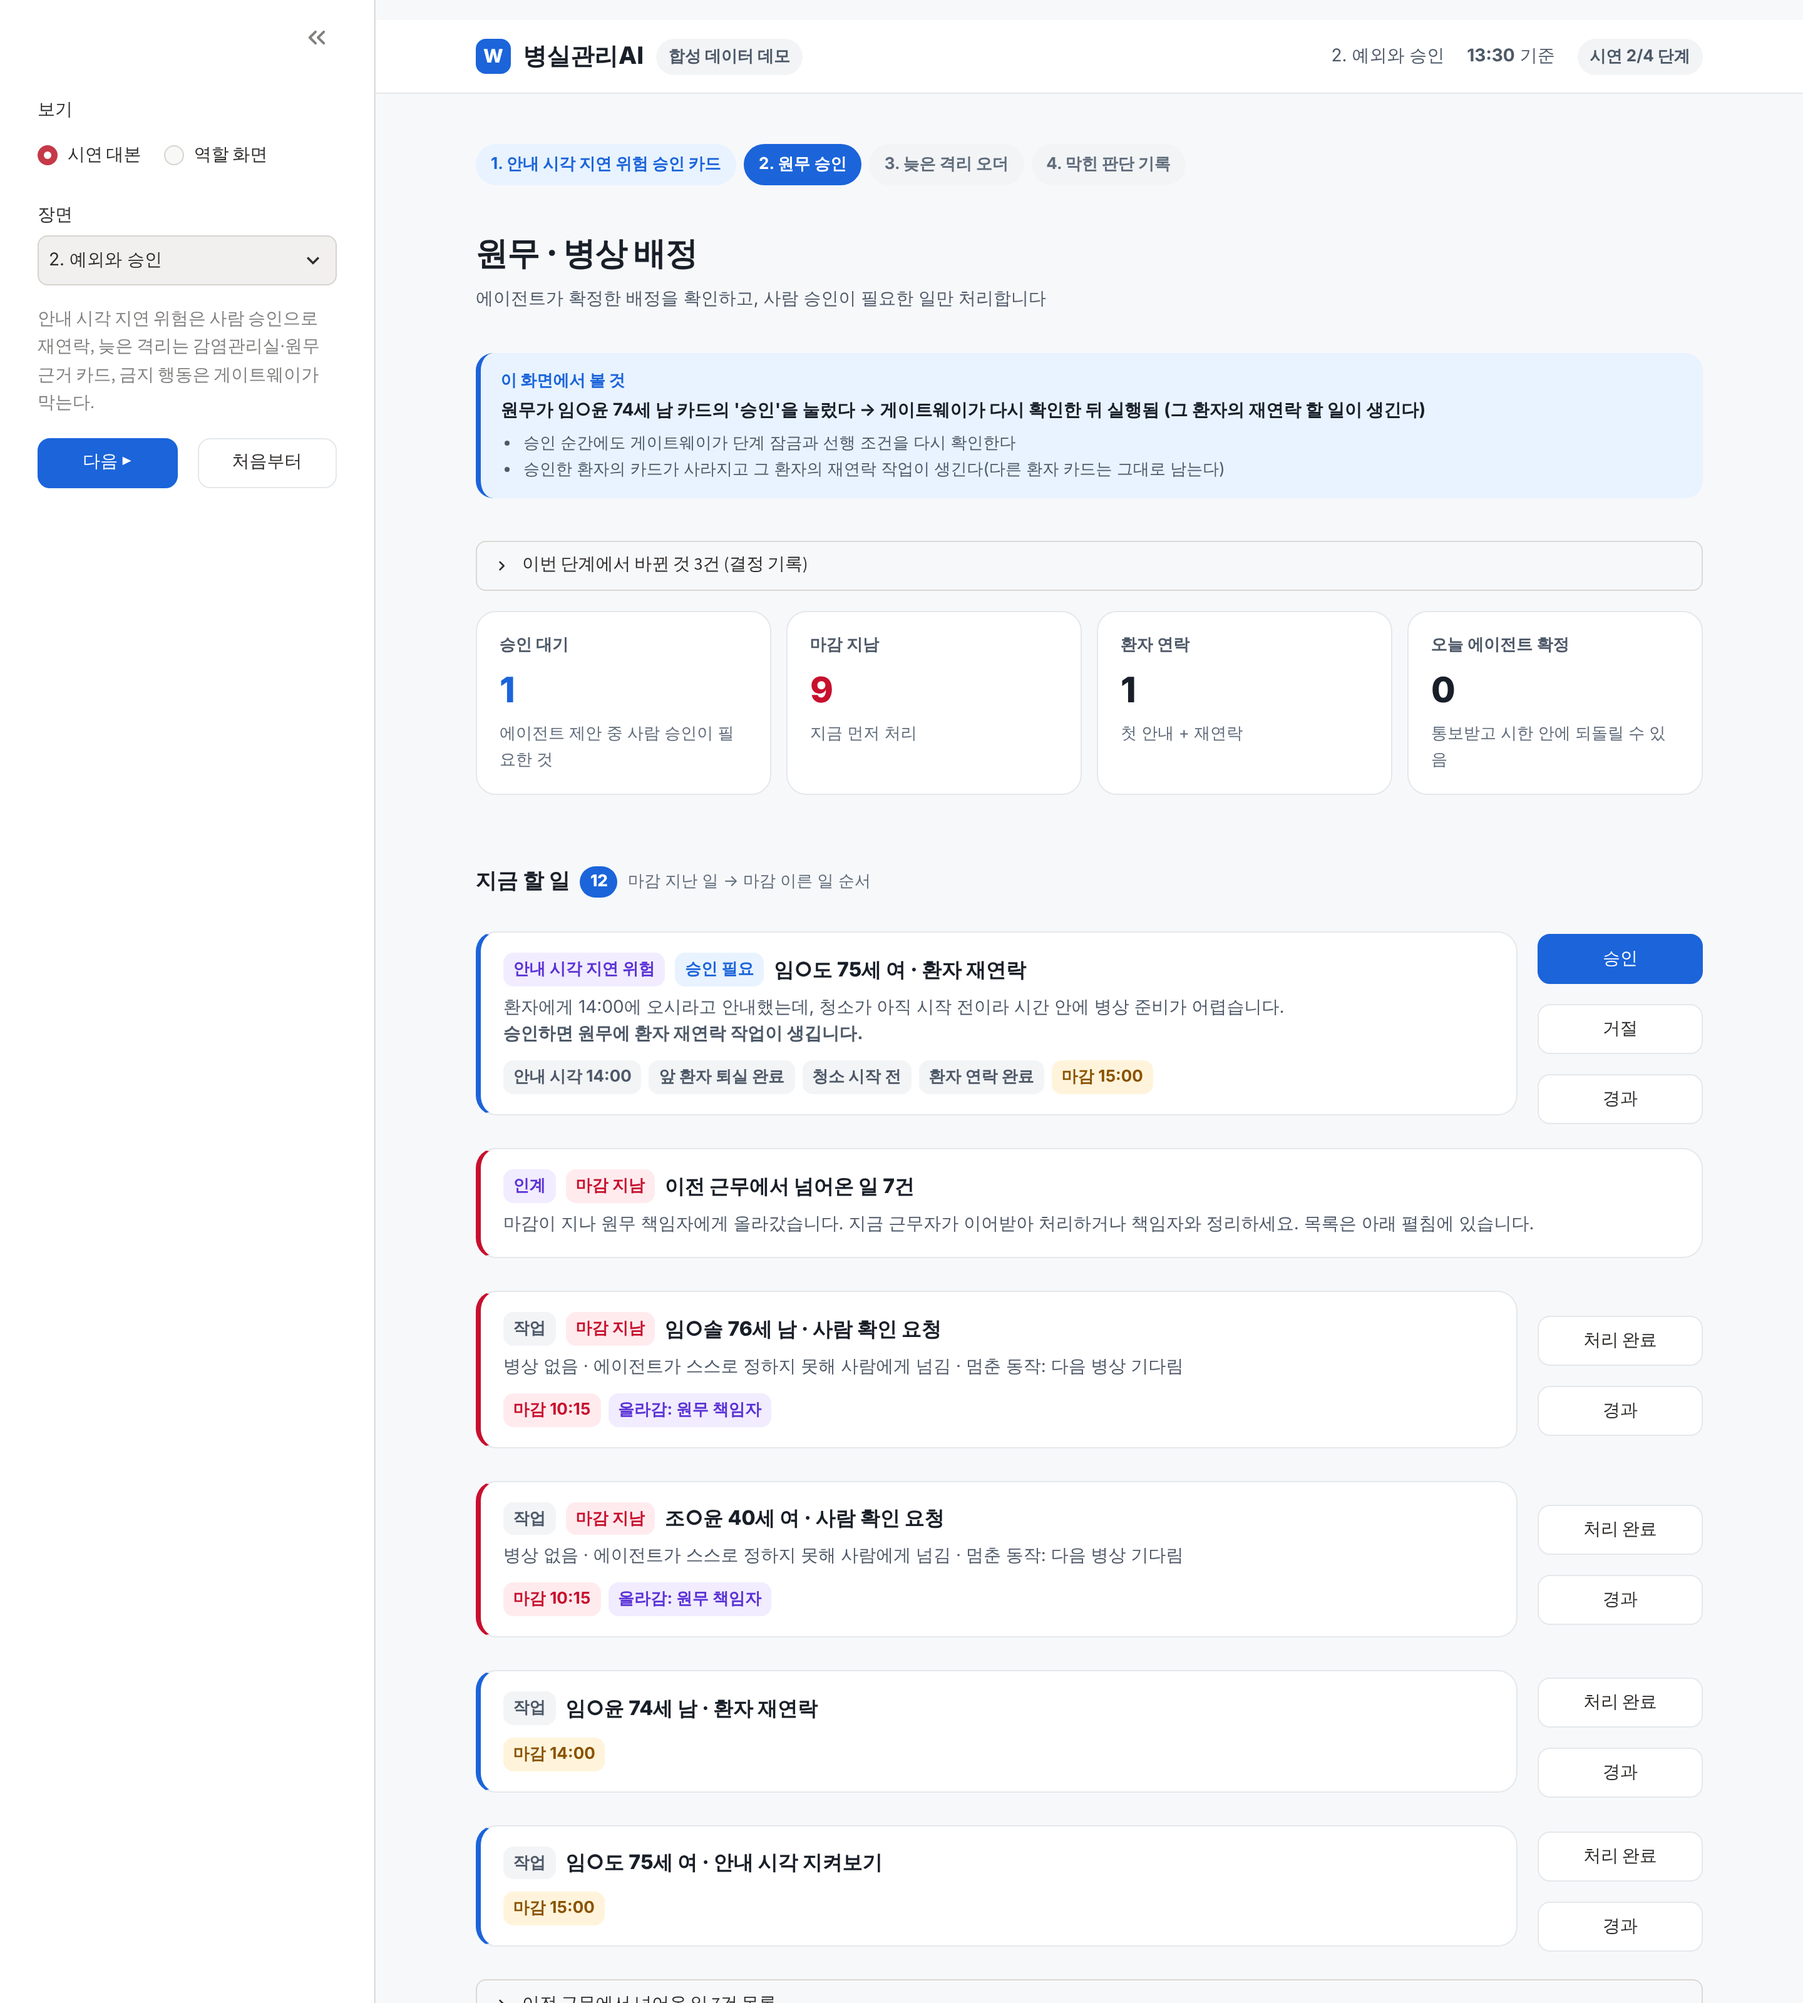
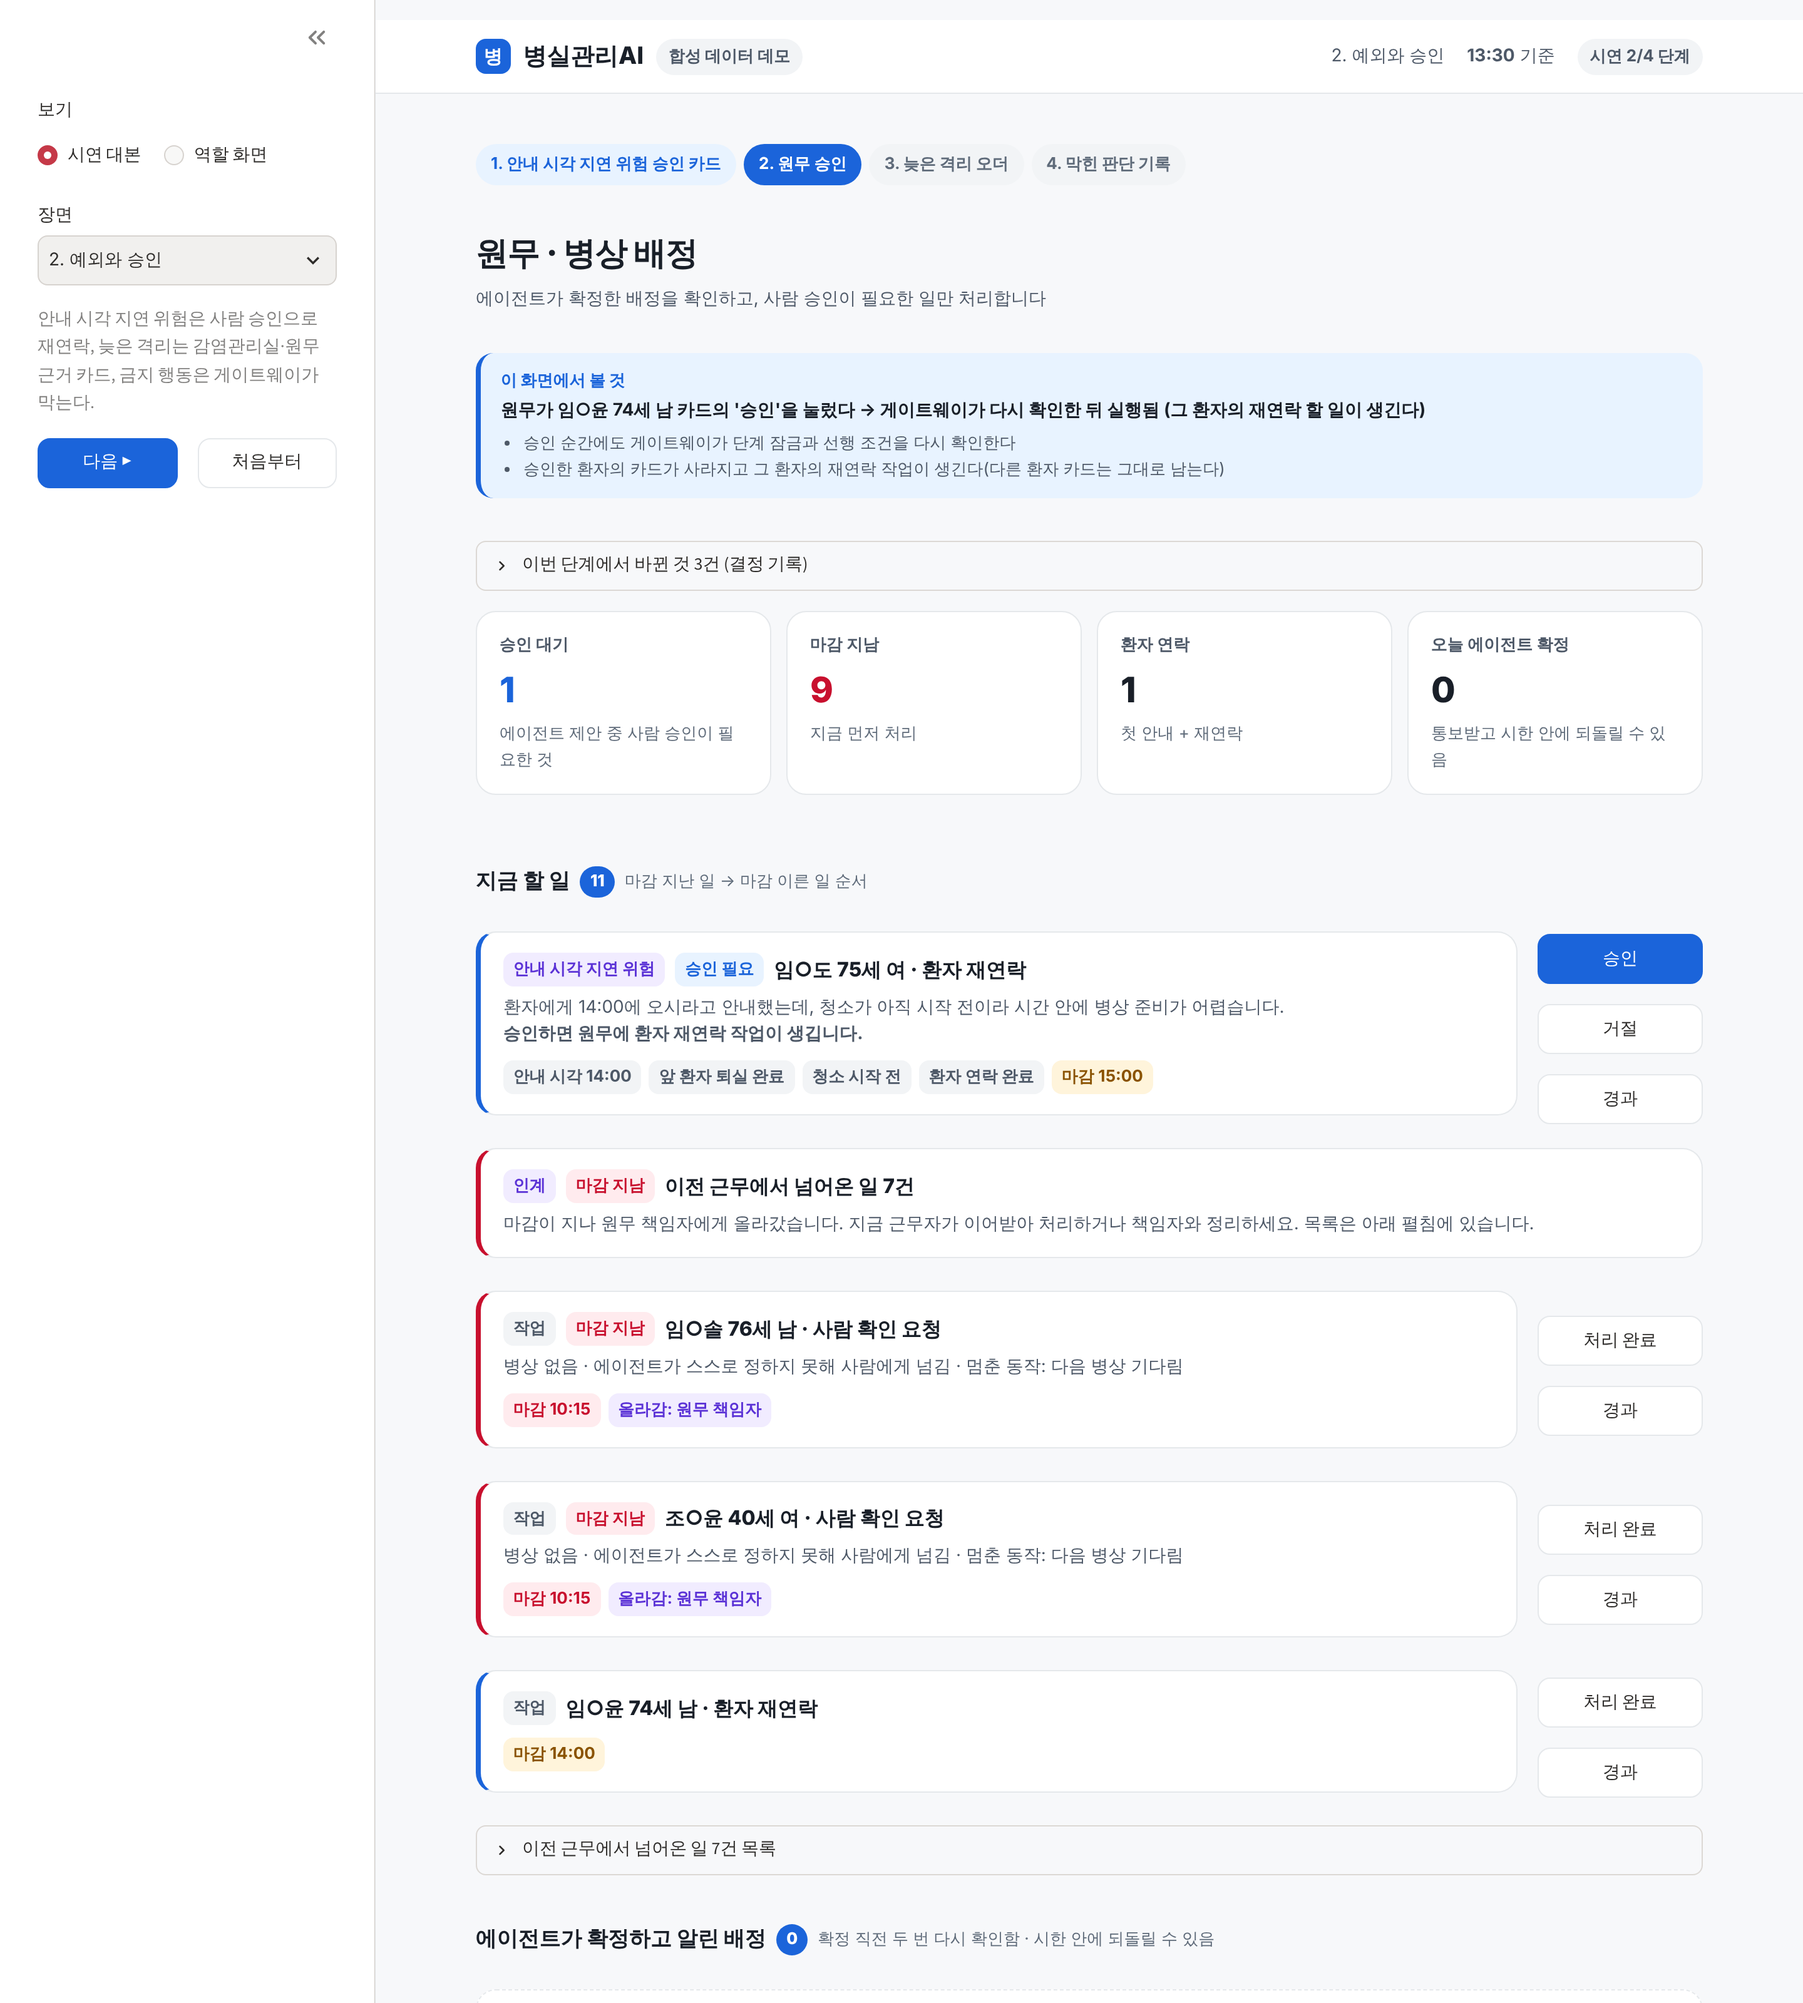
화면: 감염관리실 승인 카드 문구·지표, 주 버튼 색 선택자 수정, 스크린샷 갱신
Claude-Session: https://claude.ai/code/session_01LTbFbGTsqcm4pRk2rt9J7f

Changed region(s): [[0.25, 0.9062, 0.4688, 1.0], [0.375, 0.9688, 0.4375, 1.0], [0.875, 0.9062, 0.9062, 0.9375]]

diff --git a/src/turnaround/ui/scenes.py b/src/turnaround/ui/scenes.py
@@ -210,7 +210,7 @@ def _b4(run):
 SCENE_EXCEPTION = Scene("exception", "2. 예외와 승인",
                         "안내 시각 지연 위험은 사람 승인으로 재연락, 늦은 격리는 감염관리실·원무 근거 카드, 금지 행동은 게이트웨이가 막는다.",
                         [Step("안내 시각 지연 위험 승인 카드", "admission", _b1, ["'지금 할 일'의 승인 카드: 환자에게 안내한 시각이 위험해 에이전트가 재연락을 제안", "근거 칩: 안내한 시각, 앞 환자 퇴실 여부, 마감", "사람 승인이 필요한 행동만 이렇게 올라온다"]), Step("원무 승인", "admission", _b2, ["승인 순간에도 게이트웨이가 단계 잠금과 선행 조건을 다시 확인한다", "승인한 환자의 카드가 사라지고 그 환자의 재연락 작업이 생긴다(다른 환자 카드는 그대로 남는다)"]),
-                         Step("늦은 격리 오더", "ipc", _b3, ["확정된 환자에게 늦은 공기주의 격리 오더(결핵 의심)", "감염관리실 '지금 할 일'에 통지, 에이전트 제안은 원무 승인 대기", "병상을 다시 확인하기 전에는 '환자 올려 보내기(호출)'를 보류한다"]), Step("막힌 판단 기록", "admission", _b4, ["시연용 시험 입력: 에이전트가 확정 환자를 스스로 다른 병상으로 옮기려 함", "게이트웨이가 거부하고 '막힌 판단' 기록에 남는다(아래 펼침)"])])
+                         Step("늦은 격리 오더", "ipc", _b3, ["확정된 환자에게 늦은 공기주의 격리 오더(결핵 의심)", "감염관리실 '지금 할 일'에 통지와 병상 결정 승인 카드(격리 병실 결정은 감염관리실, 원무는 결정 대기)", "병상을 다시 확인하기 전에는 '환자 올려 보내기(호출)'를 보류한다"]), Step("막힌 판단 기록", "admission", _b4, ["시연용 시험 입력: 에이전트가 확정 환자를 스스로 다른 병상으로 옮기려 함", "게이트웨이가 거부하고 '오늘 막힌 판단' 표에 남는다"])])
 
 
 # ---------------- 3. 새 병원 시작하기 ----------------

diff --git a/src/turnaround/ui/theme.py b/src/turnaround/ui/theme.py
@@ -31,8 +31,8 @@ header[data-testid="stHeader"] { display: none; }
 section[data-testid="stSidebar"] { background: #fff; border-right: 1px solid %(line)s; }
 section[data-testid="stSidebar"] .block-container { padding-top: 24px !important; }
 div[data-testid="stVerticalBlockBorderWrapper"] { border-radius: 16px; }
-.stButton > button { border-radius: 10px; font-weight: 700; border: 1px solid %(line)s; padding: 6px 14px; }
-.stButton > button[kind="primary"] { background: %(blue)s; border-color: %(blue)s; }
+.stButton button { border-radius: 10px; font-weight: 700; border: 1px solid %(line)s; padding: 6px 14px; }
+.stButton button[kind="primary"], button[data-testid="stBaseButton-primary"] { background: %(blue)s !important; border-color: %(blue)s !important; color:#fff !important; }
 .wl-top { display:flex; align-items:center; justify-content:space-between; background:#fff; border-bottom:1px solid %(line)s;
           margin: 0 -9999px 20px; padding: 14px 9999px; }
 .wl-brand { display:flex; align-items:center; gap:10px; font-weight:800; font-size:19px; color:%(ink)s; }

diff --git a/src/turnaround/ui/app.py b/src/turnaround/ui/app.py
@@ -258,7 +258,7 @@ def show_ipc(d: dict, sv=None) -> None:
     _PRIMARY["used"] = False
     todo = [a for a in d["alerts"] if not a["checked"]]
     waiting = [t for t in d["terminal"] if t["status"] != "종말소독 완료"]
-    st.html(T.kpis([("확인할 통지", len(todo), "늦은 격리 등", "warn" if todo else ""),
+    st.html(T.kpis([("결정·확인할 일", len(todo) + len(d.get("approvals") or []), "병상 결정 승인 + 늦은 격리 통지", "warn" if todo else ""),
                     ("오늘 격리 오더", len(d["isolation_orders"]), "", ""),
                     ("빈 음압실", d["np_free"], "지금 바로 쓸 수 있는", "accent"),
                     ("종말소독 대기", len(waiting), "격리 퇴실 병상", "")]))

diff --git a/src/turnaround/ui/views.py b/src/turnaround/ui/views.py
@@ -371,7 +371,7 @@ def ipc_view(st) -> dict:
                          f"({REASON_KO.get(c.get('rejected_reason'), c.get('rejected_reason'))})")
         if c.get("agent_action"):
             parts.append(f"에이전트 제안: {ACTION_KO.get(c['agent_action'], c['agent_action'])}"
-                         + (" (원무 승인 대기)" if c["agent_action"] in ("propose_rematch", "request_recontact") else ""))
+                         + (" (감염관리실 승인 대기)" if c["agent_action"] == "propose_rematch" else " (원무 승인 대기)" if c["agent_action"] == "request_recontact" else ""))
         if c.get("deadline"):
             parts.append(f"마감 {str(c['deadline'])[11:16]}")
         return " · ".join(p for p in parts if p)
